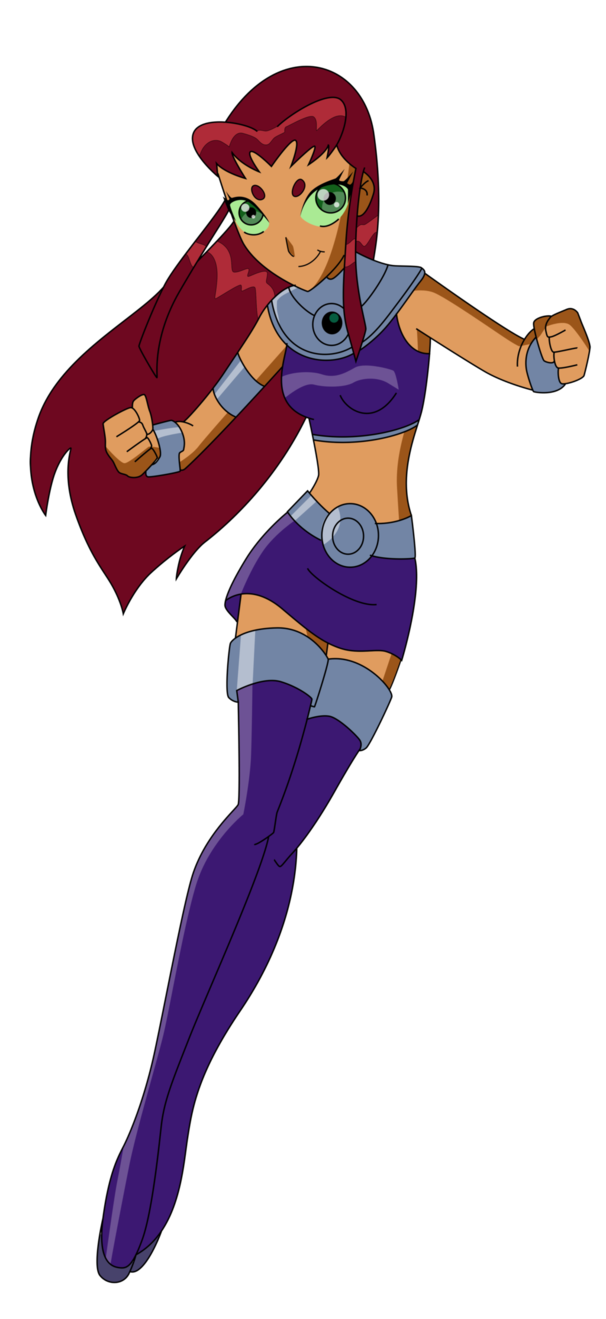
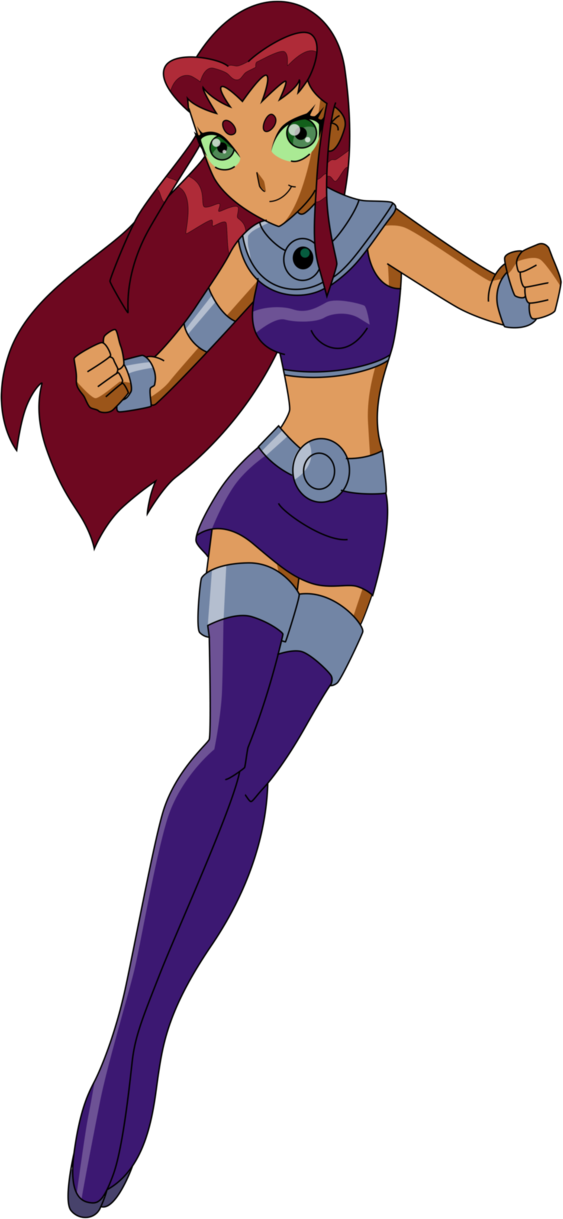
fix: feat: add character selection system and hero layout

Changed region(s): [[0.0, 0.0, 1.0, 1.0], [0.3623, 0.6858, 0.3925, 0.717], [0.3321, 0.717, 0.3623, 0.7482]]

diff --git a/src/app/components/initial/initial.scss b/src/app/components/initial/initial.scss
@@ -11,6 +11,8 @@
   display: flex;
   justify-content: center;
   align-items: center;
+  overflow: hidden;
+
   .hero-visual {
     position: absolute;
     right: 0;
@@ -20,31 +22,23 @@
     display: flex;
     justify-content: center;
     align-items: flex-end;
-    pointer-events: none; /* MUITO IMPORTANTE */
+    pointer-events: none;
   }
 
-  /* PERSONAGEM */
   .personagem {
-    margin-top: 0px !important;
-    position: relative;
+    position: absolute;
     z-index: 2;
-    transition: all 0.3s ease;
+    margin-right: 4%;
   }
 
-  /* SOMBRA */
   .sombra {
     position: absolute;
     width: clamp(350px, 40vw, 600px);
-    opacity: 0.6;
-    filter: blur(10px);
-    transform: translate(40px, 40px); /* ajusta aqui */
+    opacity: 0.4;
     z-index: 1;
-    transition: all 0.3s ease;
   }
   .hero-text {
-    margin-top: 5px;
-    backdrop-filter: blur(6px);
-    background: rgba(0, 0, 0, 0.3);
+    margin-top: 5%;
     padding: 30px;
     border-radius: 12px;
     position: absolute;
@@ -57,11 +51,10 @@
     margin-left: 10px;
     color: rgba(255, 255, 255, 0.693);
     .title {
-      overflow-wrap: break-word;
-      font-size: 50px;
+      font-size: 30vh;
     }
     .ph {
-      font-size: 35px;
+      font-size: 30px;
     }
   }
 
@@ -72,6 +65,12 @@
     flex-wrap: wrap;
     margin-top: auto;
     margin-bottom: 90px;
+    background-color: black;
+    opacity: 0.9;
+    /* ADICIONE ISTO: Sombra preta suave */
+    box-shadow: 0 10px 30px rgba(0, 0, 0, 0.5); /* Deslocamento y, difusão, cor preta com 50% de opacidade */
+    border-radius: 12px; // Combine com o raio dos botões para harmonia
+    padding: 15px;
 
     .hero-btn {
       border-radius: 10px;
@@ -82,19 +81,25 @@
       background-position: center 1%;
 
       &.starfire {
-        background-image: url('/imgs.home/estelar.jpg');
+        background-image: url('/backgrounds/icons/starfire-icon.png');
+        background-color: #d6520f;
       }
       &.raven {
-        background-image: url('/imgs.home/ravena.jpg');
+        background-image: url('/backgrounds/icons/raven-icon.png');
+        background-color: #1d0c7d;
+        background-position: left 7%;
       }
       &.robin {
-        background-image: url('/imgs.home/robin.jpg');
+        background-image: url('/backgrounds/icons/robin-icon.png');
+        background-color: #7a0909;
       }
       &.beastboy {
-        background-image: url('/imgs.home/mutano.jpg');
+        background-image: url('/backgrounds/icons/beastboy-icon.png');
+        background-color: #207e0d;
       }
       &.cyborg {
-        background-image: url('/imgs.home/cyborg.jpg');
+        background-image: url('/backgrounds/icons/cyborg-icon.png');
+        background-color: #1359a9;
       }
     }
     .hero-btn:hover {

diff --git a/src/app/components/initial/initial.ts b/src/app/components/initial/initial.ts
@@ -17,9 +17,9 @@ export class Initial {
       imgSombra: 'backgrounds/shadows/sombra.estelar.png',
       corPrincipal: '#D84800',
       corSecundaria: '#6E1F00',
-      width: 520,
-      bottom: -420,
-      right: 20,
+      width: 500,
+      top: 8,
+      right: 40,
     },
     //RAVENA
     {
@@ -30,7 +30,7 @@ export class Initial {
       corPrincipal: '#0D0055',
       corSecundaria: '#05001F',
       width: 520,
-      bottom: 0,
+      top: 8,
       right: 30,
     },
     {
@@ -42,19 +42,19 @@ export class Initial {
       corPrincipal: '#5D0000',
       corSecundaria: '#420000',
       width: 600,
-      bottom: 200,
+      top: -5,
       right: 100,
     },
     //MUTANO
     {
-      nome: 'Beastboy',
+      nome: 'Mutano',
       descricao: 'Um metamorfo habilidoso que se transforma em animais.',
       img: '/backgrounds/characters/beastboy.webp',
       imgSombra: '/backgrounds/shadows/sombra.mutano.png',
       corPrincipal: '#0B4400',
       corSecundaria: '#051C00',
       width: 520,
-      bottom: 0,
+      top: 8,
       right: 80,
     },
     //CYBORG
@@ -66,7 +66,7 @@ export class Initial {
       corPrincipal: '#004798',
       corSecundaria: '#003A7C',
       width: 520,
-      bottom: 0,
+      top: 8,
       right: 90,
     },
   ];

diff --git a/src/app/components/initial/initial.html b/src/app/components/initial/initial.html
@@ -13,7 +13,7 @@
       [src]="personagemAtivo.imgSombra"
       [ngStyle]="{
         width: personagemAtivo.width + 'px',
-        bottom: personagemAtivo.bottom + 'px',
+        top: personagemAtivo.top + '%',
         right: personagemAtivo.right + 'px',
       }"
     />
@@ -23,7 +23,7 @@
       [src]="personagemAtivo.img"
       [ngStyle]="{
         width: personagemAtivo.width + 'px',
-        bottom: personagemAtivo.bottom + 'px',
+        top: personagemAtivo.top + '%',
         right: personagemAtivo.right + 'px',
       }"
     />
